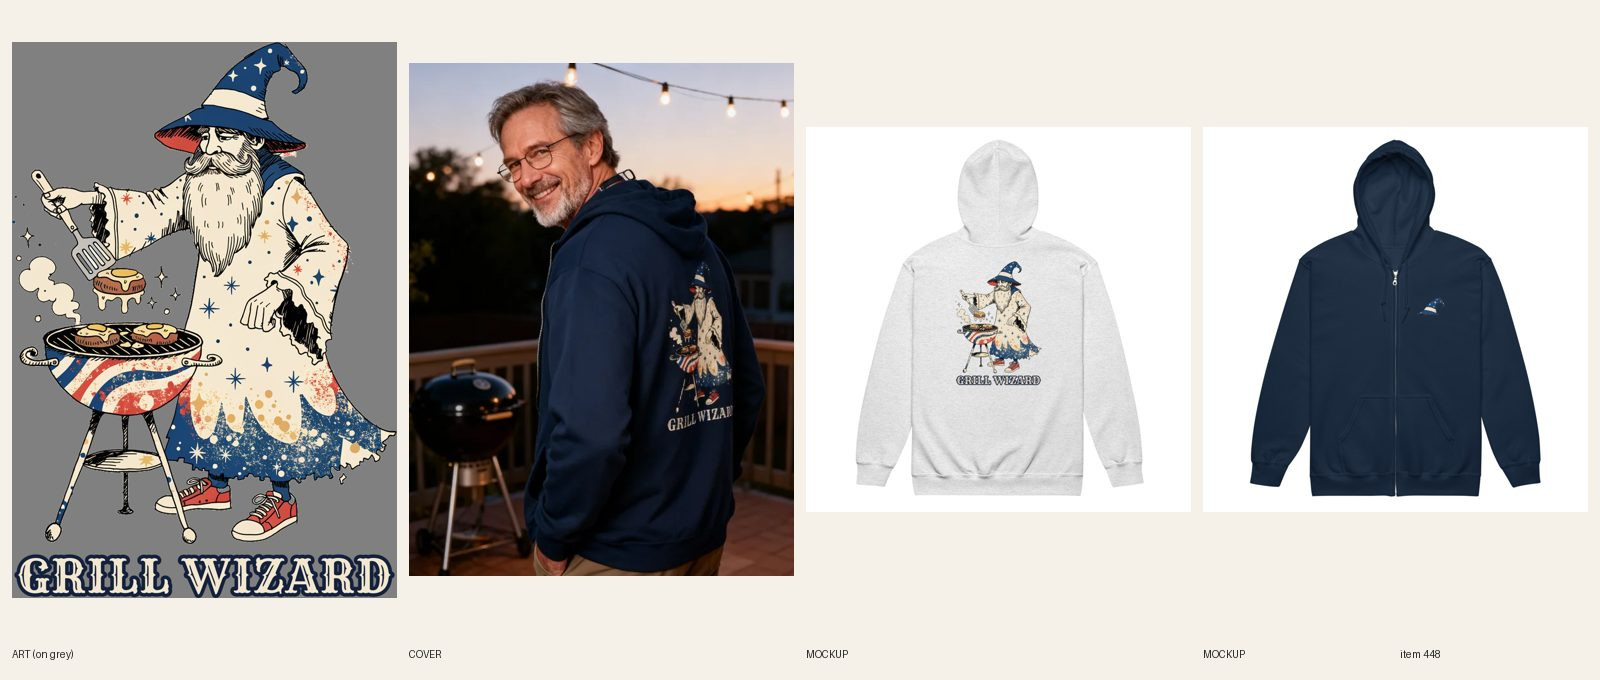
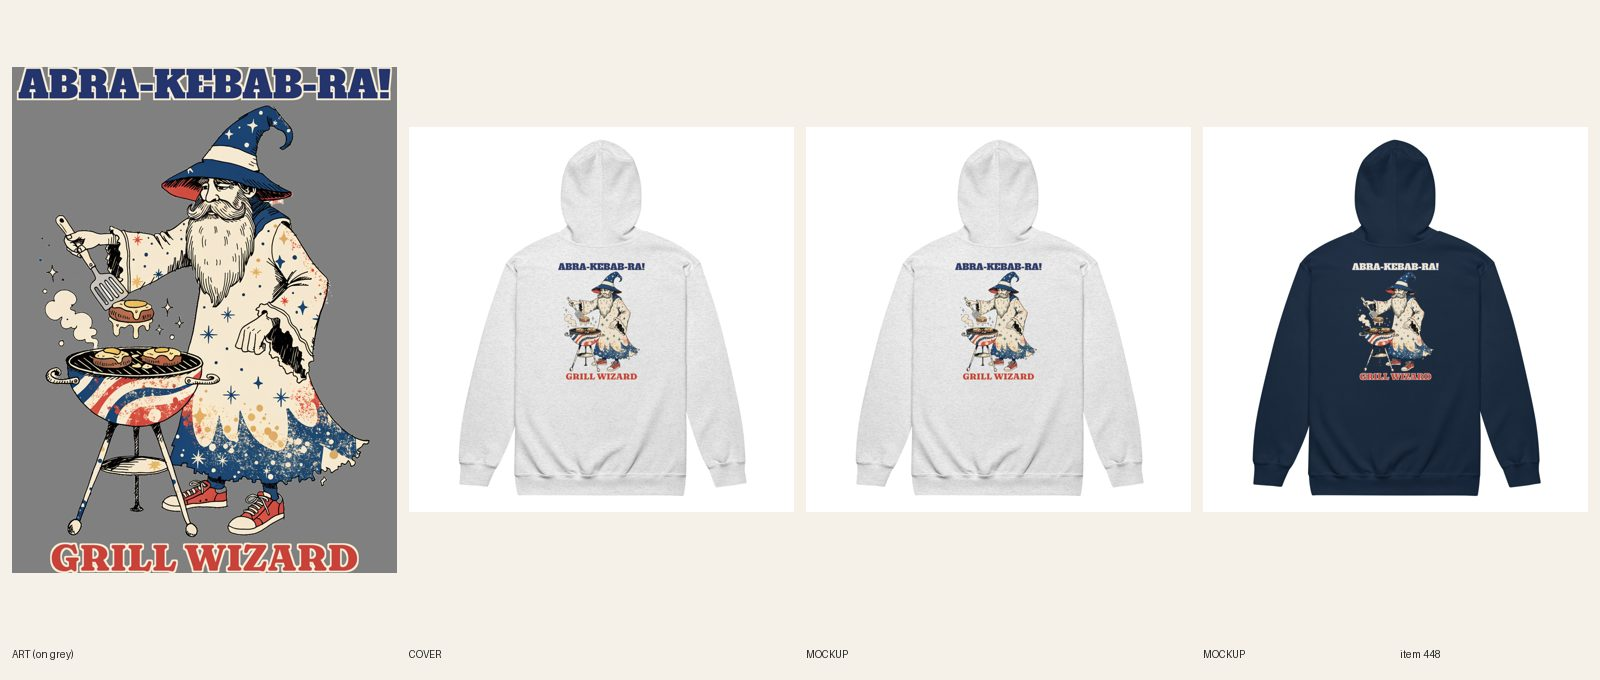
[C] review 448 (redo)
Claude-Session: https://claude.ai/code/session_01CCHcDj8LcJJ8qUPtKE3cvn

diff --git a/designs/c448/make.py b/designs/c448/make.py
@@ -1,0 +1,36 @@
+from PIL import Image, ImageDraw, ImageFont, ImageFilter
+FD='designs/fonts/'
+RED=(196,52,44,255); NAVY=(36,52,108,255); RED=(200,66,58,255); CREAM=(246,236,214,255); BROWN=(58,36,24,255)
+def line(text,font,wfrac,W,fill,key,kw=31,track=0,var=None):
+    def mk(sz):
+        f=ImageFont.truetype(FD+font,sz)
+        if var: f.set_variation_by_axes(var)
+        return f
+    f=mk(800); adv=[f.getlength(c) for c in text]
+    tot=sum(adv)+track*(len(text)-1); size=int(800*W*wfrac/tot)
+    f=mk(size); adv=[f.getlength(c) for c in text]; tr=int(track*size/800)
+    asc,desc=f.getmetrics(); tot=int(sum(adv)+tr*(len(text)-1))
+    pad=80; im=Image.new('RGBA',(tot+2*pad,asc+desc+2*pad),(0,0,0,0))
+    def draw(layer,col):
+        d=ImageDraw.Draw(layer); x=pad
+        for c,a in zip(text,adv): d.text((x,pad),c,font=f,fill=col); x+=a+tr
+    k=Image.new('L',im.size,0); d=ImageDraw.Draw(k); x=pad
+    for c,a in zip(text,adv): d.text((x,pad),c,font=f,fill=255); x+=a+tr
+    k=k.filter(ImageFilter.MaxFilter(kw)); im.paste(Image.new('RGBA',im.size,key),(0,0),k)
+    draw(im,fill)
+    return im.crop(im.getbbox())
+def build(tag,c1,k1,bgc):
+    src=Image.open('docs/print-files/448-grill-wizard.png').convert('RGBA'); W=src.width
+    art=src.crop((0,0,W,3666)); sc=0.86; art=art.resize((int(W*sc),int(art.height*sc)),Image.LANCZOS)
+    h1=line("ABRA-KEBAB-RA!",'AlfaSlabOne-Regular.ttf',0.97,W,c1,k1,kw=27)
+    h2=line("GRILL WIZARD",'Fraunces[SOFT,WONK,opsz,wght].ttf',0.80,W,RED,CREAM,kw=25,var=[0,900,72,0])
+    print(tag,'h1',h1.size,'h2',h2.size,'ratio h2/h1',h2.height/h1.height)
+    g=36; H=h1.height+g+art.height+g+h2.height
+    out=Image.new('RGBA',(W,H),(0,0,0,0))
+    out.alpha_composite(h1,((W-h1.width)//2,0)); y=h1.height+g
+    out.alpha_composite(art,((W-art.width)//2,y)); y+=art.height+g
+    out.alpha_composite(h2,((W-h2.width)//2,y))
+    out.save(f'docs/print-files/448-v2-abra-{tag}.png'); print(out.size,H/W)
+    bg=Image.new('RGBA',out.size,bgc); bg.alpha_composite(out); bg.convert('RGB').resize((600,int(600*H/W))).save(f'designs/c448/prev_{tag}.png')
+build('ash',NAVY,CREAM,(200,200,200,255))
+build('navy',CREAM,NAVY,(38,50,88,255))

diff --git a/docs/pipeline/448-wizard-zip-hoodie-grill-wizard.md b/docs/pipeline/448-wizard-zip-hoodie-grill-wizard.md
@@ -1,4 +1,4 @@
-status: REDO
+status: REVIEW
 lane: C
 type: new
 id: 448
@@ -30,3 +30,4 @@ kd: 17
 - 2026-10-17 21:17 UTC builder [C]: REVIEW. Sync 12/12. Sheet docs/review/448.jpg. design-crops and variant-photo audit cover published products only: rerun when ACTIVE. Local cohesion audit not run (no spec file); copy checked by hand against the art. UNPARKED: mockups redone (Ash+Navy front and back), cover 1 fal image (registry #645, back three-quarter view, hood and front zipper visible, GRILL WIZARD readable though the D curves at the body edge). Copy fixed: chest copy is the wizard's hat only, lettering is cream western capitals.
 - 2026-10-17 21:20 UTC director: LIVE. Sheet seen: wizard flipping burgers on the back with GRILL WIZARD in western capitals, hat on the chest; reads on Ash and Navy; cover man on a deck at dusk, back three-quarter view with the hood and front zip visible. ACTIVE + Online Store, Headless, Google & YouTube; audit --handle PASS.
 - 2026-10-18 17:22 UTC director: QUALITY RESET grade C (new line + type), REDO. The product stays ACTIVE (same handle, URL, title keyword). 1. Line (R3.12, quality-reset 'Lines'): "GRILL WIZARD": Noun label describing the picture, no joke. Write 5 candidates, keep the one a stranger laughs at in 3 seconds without backstory; kill lines that only describe the picture; if none of the 5 is funny, PARK it. 2. Quality reset type bar (docs/backlog/quality-reset.md, 'The new bar'): headline at least 90% of the art width, heavy, colors pulled from the art; second line at least 45% of the headline's height, never a thin script on a dark or mid garment; use the lettering as a shape (arch, stacked lockup, words breaking into the art), not a plain bar above and a script line below; no font used on more than 1 in 6 of the last 30 designs. 3. Keep the art if it carries the new line, else one new illustration (R4/R5). New print means a new cover per R6.10, copy line one rewritten for the new joke (R8.3), and a fresh review sheet (R7.7). While quality-reset.md says PAUSED, only lane A builds, and only the samples step 2 names.
+- 2026-10-20 09:20 UTC builder [C]: REDO new line + type (grade C). 5 candidates: "ABRA-KEBAB-RA! / GRILL WIZARD" (kept: a pun a stranger gets in 3 seconds, the old label stays as the sub-line), "I DON'T BURN BURGERS. I CAST THEM.", "SEASONED BY MAGIC", "MEDIUM RARE IS A DARK ART", "PATTY-CAKE, PATTY-CAKE, SPELL-CAST MAN". Same wizard art, scaled 86% to fit the back with the two lines. ABRA-KEBAB-RA! Alfa Slab One 97% of the art width; GRILL WIZARD Fraunces Black 80% width, red with cream keyline (92% of the headline's height). Light-file (R5.3.8): Ash file 1090170117 has the headline navy with a cream keyline; Navy file 1090170188 has it cream with a navy keyline (docs/print-files/448-v2-abra-ash.png / -navy.png); logged: light file Ash on file 1090170117, headline fill navy. Back 2808 x 3688, BW 1560 BT 225, chest hat file 1088436124 unchanged, 12/12 relinked per color. Ash back mockup replaced in place; Navy back mockup added as a gallery image. Copy, story and SEO rewritten for the new line. Plain product shot. fal $0.

diff --git a/docs/intake-log.md b/docs/intake-log.md
@@ -22,6 +22,7 @@ RUNNING lane B since 2026-10-20 03:28 UTC
 2026-10-20 03:41 UTC — [B] Builder run: redid #362 Women's Baseball hoodie (line + type: MISSED THE PLAY. / SEEDS WERE GOOD., same art, Bowlby One, Navy + Sand light files, 12/12 synced). REVIEW. fal $0.
 2026-10-20 05:26 UTC — [E] Builder run: redid #388 Women's Christmas crewneck (line + type: SORRY, I'M BOOKED TILL JANUARY., new party-calendar art, Navy + Sand files, 12/12 synced, copy updated, plain product shot). REVIEW. fal $0.08.
 RUNNING lane C since 2026-10-20 03:23 UTC
+2026-10-20 09:22 UTC — [C] Builder run: redid #448 Men's Wizard grill zip hoodie (new line + type: ABRA-KEBAB-RA! / GRILL WIZARD, Alfa Slab + Fraunces, same wizard art, Ash file 1090170117 + Navy file 1090170188, BW 1560 BT 225, 12/12 relinked, back mockups updated, copy + SEO updated, plain product shot). REVIEW. fal $0.
 2026-10-20 08:47 UTC — [C] Builder run: redid #637 Men's Welder hoodie (new line + type: WELD. GRIND. PAINT. / NOBODY WILL KNOW., Big Shoulders + Alfa Slab, same worker art, Sand file 1090166098 + Navy file 1090166150, FW 1500 TOP 0, 12/12 relinked, 2 fronts replaced in place, copy + SEO updated, plain product shot). REVIEW (DRAFT). fal $0.
 2026-10-20 08:12 UTC — [C] Builder run: redid #622 Men's Golf army golf zip hoodie (type only: I PLAY ARMY GOLF. in Anton heavy green, headline kept, back file 1090161443, 12/12 relinked, 2 back mockups replaced in place, copy updated, plain product shot). REVIEW. fal $0.
 2026-10-20 07:32 UTC — [C] Builder run: redid #503 Men's Golf heavyweight hoodie (new line + type: MY SWING IS FINE. / THE TREES MOVED., Anton + Bowlby One, same golfer art, Sandstone file 1090158606 + Storm Blue file 1090158696, FW 1500 TOP 30, 14/14 relinked, 2 fronts replaced in place, copy + SEO updated, plain product shot). REVIEW. fal $0.
